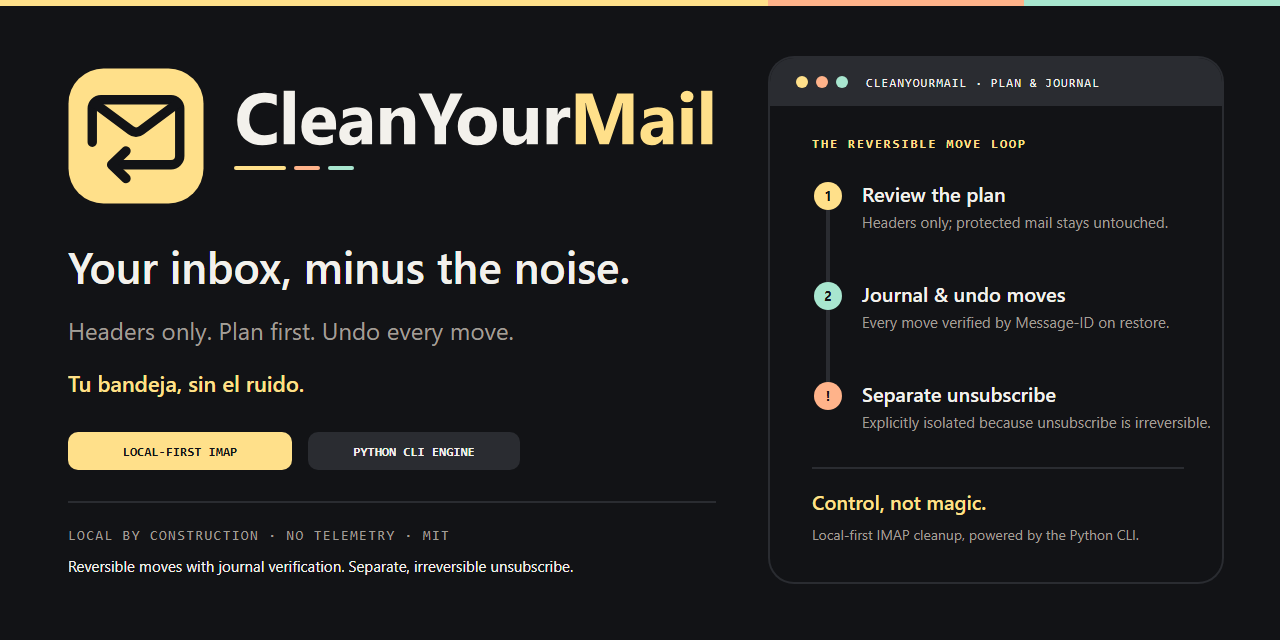
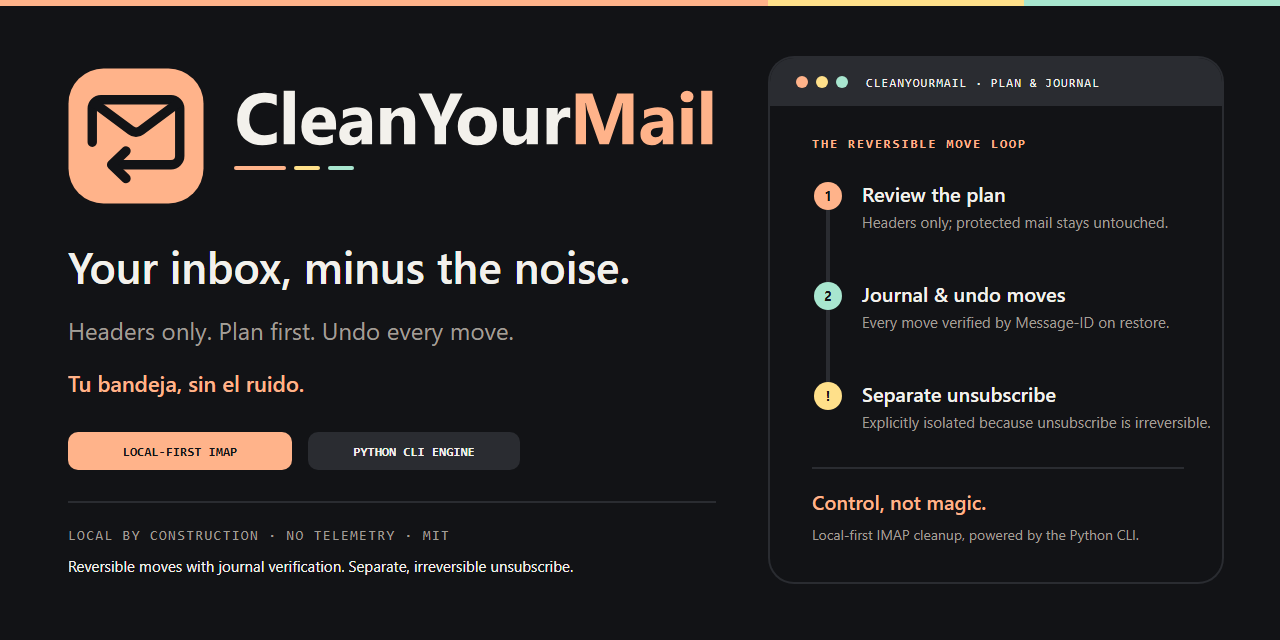
brand: make orange the primary Spectrum accent
- Swap the yellow/orange roles: orange (#FFB38A) is now primary.\n- Yellow (#FFE08A) moves to attention and irreversible unsubscribe.\n- Mint (#A8E6CF) remains journal/undo.\n- Update the Spectrum guide, preview, banner and social card.\n\nTests: python -m unittest discover -s tests -v (146 OK);\npython -m compileall -q tools tests; python -m ruff check tools tests.

diff --git a/brand/final-spectrum/preview.html b/brand/final-spectrum/preview.html
@@ -12,8 +12,8 @@
       --panel-inner: #191B20;
       --text: #F3F1EC;
       --muted: #A19E96;
+      --orange: #FFB38A;
       --yellow: #FFE08A;
-      --peach: #FFB38A;
       --mint: #A8E6CF;
       --light-bg: #F3F1EC;
       --light-text: #121316;
@@ -33,8 +33,8 @@
       height: 5px;
       width: 100%;
     }
-    .top-ribbon .r-yellow { flex: 6; background: var(--yellow); }
-    .top-ribbon .r-peach { flex: 2; background: var(--peach); }
+    .top-ribbon .r-orange { flex: 6; background: var(--orange); }
+    .top-ribbon .r-yellow { flex: 2; background: var(--yellow); }
     .top-ribbon .r-mint { flex: 2; background: var(--mint); }
     main {
       width: min(1440px, calc(100% - 64px));
@@ -55,7 +55,7 @@
     h2 { font-size: 22px; letter-spacing: -0.02em; margin-bottom: 6px; }
     h3 { font-size: 15px; font-weight: 600; color: var(--text); margin-bottom: 10px; }
     .eyebrow {
-      color: var(--yellow);
+      color: var(--orange);
       font: 700 12px/1.4 Consolas, Menlo, monospace;
       letter-spacing: 0.16em;
       text-transform: uppercase;
@@ -69,7 +69,7 @@
     }
     .tagline-box { text-align: right; }
     .tagline { color: var(--text); font-size: 20px; font-weight: 600; white-space: nowrap; }
-    .tagline-es { color: var(--yellow); font-size: 15px; font-weight: 600; margin-top: 4px; white-space: nowrap; }
+    .tagline-es { color: var(--orange); font-size: 15px; font-weight: 600; margin-top: 4px; white-space: nowrap; }
     section { margin-top: 42px; }
     .section-note { color: var(--muted); font-size: 14px; margin-bottom: 18px; }
     .panel {
@@ -178,7 +178,7 @@
       width: 5px;
       height: 5px;
       border-radius: 50%;
-      background: var(--yellow);
+      background: var(--orange);
     }
     .dock-stage.light .dock-dot {
       background: var(--light-text);
@@ -251,8 +251,8 @@
 </head>
 <body>
   <div class="top-ribbon" aria-hidden="true">
+    <div class="r-orange"></div>
     <div class="r-yellow"></div>
-    <div class="r-peach"></div>
     <div class="r-mint"></div>
   </div>
   <main>
@@ -260,7 +260,7 @@
       <div>
         <div class="eyebrow">Spectrum Colorway · Return Fold Identity</div>
         <h1>CleanYourMail</h1>
-        <p class="lede">Control, not magic. The Return Fold desktop app and CLI identity in the high-contrast Spectrum palette: warm yellow primary tile, mint journal/undo markers, and peach irreversible-unsubscribe warnings.</p>
+        <p class="lede">Control, not magic. The Return Fold desktop app and CLI identity in the high-contrast Spectrum palette: warm orange primary tile, mint journal/undo markers, and yellow irreversible-unsubscribe warnings.</p>
       </div>
       <div class="tagline-box">
         <p class="tagline">Your inbox, minus the noise.</p>
@@ -270,7 +270,7 @@
 
     <section>
       <h2>Symbol scale test (16 px – 256 px)</h2>
-      <p class="section-note">Solid yellow (#FFE08A) tile with a single near-black (#121316) Return Fold glyph (14.40:1 contrast). The three-stripe ribbon is never placed inside the symbol or favicon.</p>
+      <p class="section-note">Solid orange (#FFB38A) tile with a single near-black (#121316) Return Fold glyph (10.67:1 contrast). The three-stripe ribbon is never placed inside the symbol or favicon.</p>
       <div class="panel sizes">
         <div class="size"><img src="symbol.svg" alt="CleanYourMail Spectrum symbol at 16 pixels" width="16" height="16"><span>16 px</span></div>
         <div class="size"><img src="symbol.svg" alt="CleanYourMail Spectrum symbol at 24 pixels" width="24" height="24"><span>24 px</span></div>
@@ -283,7 +283,7 @@
 
     <section>
       <h2>Desktop app icon — dark &amp; light dock / taskbar mock</h2>
-      <p class="section-note">1024×1024 rounded-square desktop app icon with 96 px macOS/Windows safe margins, dark #121316 outer bezel, #2A2C31 inner rim, and #FFE08A Return Fold badge.</p>
+      <p class="section-note">1024×1024 rounded-square desktop app icon with 96 px macOS/Windows safe margins, dark #121316 outer bezel, #2A2C31 inner rim, and #FFB38A Return Fold badge.</p>
       <div class="grid">
         <div class="panel asset">
           <div class="dock-stage dark">
@@ -361,7 +361,7 @@
 
     <section>
       <h2>Primary lockups &amp; restrained three-stripe accent</h2>
-      <p class="section-note">The symbol stays a solid yellow tile; the three-stripe structural rule (yellow dominant, peach, mint) sits calmly below the wordmark.</p>
+      <p class="section-note">The symbol stays a solid orange tile; the three-stripe structural rule (orange dominant, yellow, mint) sits calmly below the wordmark.</p>
       <div class="grid">
         <div class="panel asset">
           <img class="lockup-wide" src="lockup-horizontal.svg" alt="CleanYourMail Spectrum horizontal lockup" width="860" height="192">
@@ -376,7 +376,7 @@
 
     <section>
       <h2>Wordmark and light-background variant</h2>
-      <p class="section-note">wordmark.svg uses outlined vector paths (#F3F1EC CleanYour + #FFE08A Mail). light.svg uses #F3F1EC canvas, #121316 tile, and accessible deep amber #7A5A00 (5.65:1) for Mail.</p>
+      <p class="section-note">wordmark.svg uses outlined vector paths (#F3F1EC CleanYour + #FFB38A Mail). light.svg uses #F3F1EC canvas, #121316 tile, and accessible deep amber #7A5A00 (5.65:1) for Mail.</p>
       <div class="grid">
         <div class="panel asset">
           <img class="lockup-wide" src="wordmark.svg" alt="CleanYourMail Spectrum outlined wordmark" width="604" height="96">
@@ -399,7 +399,7 @@
 
     <section>
       <h2>Social / Open Graph card (1280 × 640)</h2>
-      <p class="section-note">social.svg · Local desktop app + Python CLI engine with yellow plan, mint undo, and peach irreversible-unsubscribe callout.</p>
+      <p class="section-note">social.svg · Local desktop app + Python CLI engine with orange plan, mint undo, and yellow irreversible-unsubscribe callout.</p>
       <div class="panel card"><img src="social.svg" alt="CleanYourMail Spectrum social card" width="1280" height="640"></div>
     </section>
 
@@ -408,9 +408,9 @@
       <p class="section-note">Each accent color maps to a specific product truth rather than equal-weight decoration.</p>
       <div class="roles-grid">
         <div class="role-card">
-          <span class="role-pill" style="background:#FFE08A;color:#121316;">YELLOW · #FFE08A · 14.40:1</span>
+          <span class="role-pill" style="background:#FFB38A;color:#121316;">ORANGE · #FFB38A · 10.67:1</span>
           <h3>Primary Action, Plan &amp; Logo Tile</h3>
-          <p class="section-note" style="margin:0;">Used for the Return Fold tile, "Mail" in the dark wordmark, primary CTAs ("Review Plan"), and step 1. Always pair yellow surfaces with near-black (#121316) ink.</p>
+          <p class="section-note" style="margin:0;">Used for the Return Fold tile, "Mail" in the dark wordmark, primary CTAs ("Review Plan"), and step 1. Always pair orange surfaces with near-black (#121316) ink.</p>
         </div>
         <div class="role-card">
           <span class="role-pill" style="background:#A8E6CF;color:#121316;">MINT · #A8E6CF · 13.17:1</span>
@@ -418,9 +418,9 @@
           <p class="section-note" style="margin:0;">Used for append-only journal badges, undo step markers, and secondary graphic accents. Never use for small body text on dark backgrounds.</p>
         </div>
         <div class="role-card">
-          <span class="role-pill" style="background:#FFB38A;color:#121316;">PEACH · #FFB38A · 10.67:1</span>
+          <span class="role-pill" style="background:#FFE08A;color:#121316;">YELLOW · #FFE08A · 14.40:1</span>
           <h3>Attention &amp; Irreversible Unsubscribe</h3>
-          <p class="section-note" style="margin:0;">Reserved for warnings and the separate, irreversible unsubscribe flow. Use near-black (#121316) text on peach badges.</p>
+          <p class="section-note" style="margin:0;">Reserved for warnings and the separate, irreversible unsubscribe flow. Use near-black (#121316) text on yellow badges.</p>
         </div>
       </div>
 
@@ -429,8 +429,8 @@
         <div class="swatch"><div class="swatch-color" style="background:#2A2C31"></div><div class="swatch-info"><strong>Panel Gray</strong><br>#2A2C31</div></div>
         <div class="swatch"><div class="swatch-color" style="background:#F3F1EC"></div><div class="swatch-info"><strong>Off-White Text</strong><br>#F3F1EC · 16.46:1</div></div>
         <div class="swatch"><div class="swatch-color" style="background:#A19E96"></div><div class="swatch-info"><strong>Muted Gray</strong><br>#A19E96 · 6.94:1</div></div>
-        <div class="swatch"><div class="swatch-color" style="background:#FFE08A"></div><div class="swatch-info"><strong>Primary Yellow</strong><br>#FFE08A · 14.40:1</div></div>
-        <div class="swatch"><div class="swatch-color" style="background:#FFB38A"></div><div class="swatch-info"><strong>Warning Peach</strong><br>#FFB38A · 10.67:1</div></div>
+        <div class="swatch"><div class="swatch-color" style="background:#FFB38A"></div><div class="swatch-info"><strong>Primary Orange</strong><br>#FFB38A · 10.67:1</div></div>
+        <div class="swatch"><div class="swatch-color" style="background:#FFE08A"></div><div class="swatch-info"><strong>Warning Yellow</strong><br>#FFE08A · 14.40:1</div></div>
         <div class="swatch"><div class="swatch-color" style="background:#A8E6CF"></div><div class="swatch-info"><strong>Undo Mint</strong><br>#A8E6CF · 13.17:1</div></div>
         <div class="swatch"><div class="swatch-color" style="background:#7A5A00"></div><div class="swatch-info"><strong>Light Amber</strong><br>#7A5A00 · 5.65:1</div></div>
       </div>
@@ -449,7 +449,7 @@
           </div>
           <img class="lockup-wide" src="lockup-horizontal.svg" alt="Spectrum horizontal lockup" width="860" height="192">
           <div style="margin-top:14px;"><img class="lockup-wide" src="banner.svg" alt="Spectrum banner" width="1600" height="440"></div>
-          <div class="caption">Neutral carbon #121316 + #FFE08A / #FFB38A / #A8E6CF semantic accents</div>
+          <div class="caption">Neutral carbon #121316 + #FFB38A / #FFE08A / #A8E6CF semantic accents</div>
         </div>
 
         <div class="panel asset" style="background:#07100d;border-color:#11231b;">

diff --git a/brand/final-spectrum/README.md b/brand/final-spectrum/README.md
@@ -11,23 +11,23 @@
 
 > The desktop app icon and app-first tokens are prepared for the planned app. Today the Python CLI and agent skill are the available interfaces.
 
-The **Spectrum** colorway pairs a neutral carbon background (`#121316`) and warm off-white typography (`#F3F1EC`) with three semantic signal colors—**Yellow (`#FFE08A`)**, **Peach (`#FFB38A`)**, and **Mint (`#A8E6CF`)**—plus a restrained, horizontal three-stripe structural accent. It takes only the color palette and a generic three-stripe bar as inspiration; it avoids diagonal esports slashes, condensed gaming display fonts, or third-party trade dress.
+The **Spectrum** colorway pairs a neutral carbon background (`#121316`) and warm off-white typography (`#F3F1EC`) with three semantic signal colors—**Orange (`#FFB38A`)**, **Yellow (`#FFE08A`)**, and **Mint (`#A8E6CF`)**—plus a restrained, horizontal three-stripe structural accent. It takes only the color palette and a generic three-stripe bar as inspiration; it avoids diagonal esports slashes, condensed gaming display fonts, or third-party trade dress.
 
 ---
 
 ## 2. Semantic color roles & contrast ratios
 
-Rather than using yellow, peach, and mint at equal weight inside the logo, **Spectrum assigns each accent color to a distinct product truth**:
+Rather than using orange, yellow, and mint at equal weight inside the logo, **Spectrum assigns each accent color to a distinct product truth**:
 
-1. **Yellow (`#FFE08A`) — Primary Action, Plan, CTA & Logo Tile:**
+1. **Orange (`#FFB38A`) — Primary Action, Plan, CTA & Logo Tile:**
    - Used for the solid Return Fold logo tile, `Mail` in the dark-background wordmark, primary action buttons (`Review Plan`), and Step 1 (*Plan before action*).
-   - Always use near-black (`#121316`) ink on yellow fills (`14.40:1` AAA contrast).
+   - Always use near-black (`#121316`) ink on orange fills (`10.67:1` AAA contrast).
 2. **Mint (`#A8E6CF`) — Journal, Undo & Secondary Path:**
    - Used for append-only journal badges, undo step markers (Step 2: *Journal & undo moves*), and secondary structural accents.
    - Use for step markers, icons, and large headlines (`13.17:1` on `#121316`), **never** for small body copy on dark backgrounds.
-3. **Peach (`#FFB38A`) — Attention, Warnings & Irreversible Unsubscribe:**
+3. **Yellow (`#FFE08A`) — Attention, Warnings & Irreversible Unsubscribe:**
    - Reserved for caution states and the separate, irreversible unsubscribe flow.
-   - Use near-black (`#121316`) text on peach badges (`10.67:1` AA contrast).
+   - Use near-black (`#121316`) text on yellow badges (`14.40:1` AAA contrast).
 4. **Neutral Foundation (`#121316`, `#2A2C31`, `#F3F1EC`, `#A19E96`):**
    - Carbon background `#121316`, elevated/border panel gray `#2A2C31`, warm off-white primary text `#F3F1EC`, and muted warm gray `#A19E96` for secondary copy.
 
@@ -35,12 +35,12 @@ Rather than using yellow, peach, and mint at equal weight inside the logo, **Spe
 
 | Token | Hex | Role | WCAG contrast ratio |
 |---|---|---|---|
-| `background` | `#121316` | Primary dark canvas & Return Fold ink on yellow/peach | — |
+| `background` | `#121316` | Primary dark canvas & Return Fold ink on orange/yellow | — |
 | `panel` | `#2A2C31` | Card borders, window chrome, secondary surfaces | `12.38:1` with `#F3F1EC` (AAA) |
 | `text` | `#F3F1EC` | Primary off-white text & `CleanYour` on dark | `16.46:1` on `#121316` (AAA) |
 | `muted` | `#A19E96` | Secondary copy, subtitles, technical metadata | `6.94:1` on `#121316` (AA) / `5.22:1` on `#2A2C31` (AA) |
-| `yellow` | `#FFE08A` | Logo tile, `Mail` on dark, Plan / primary CTA | `14.40:1` with `#121316` (AAA) / `10.83:1` on `#2A2C31` (AAA) |
-| `peach` | `#FFB38A` | Warnings & irreversible unsubscribe badges | `10.67:1` with `#121316` (AA) / `8.03:1` on `#2A2C31` (AA Large) |
+| `orange` | `#FFB38A` | Logo tile, `Mail` on dark, Plan / primary CTA | `10.67:1` with `#121316` (AAA) / `8.03:1` on `#2A2C31` (AAA) |
+| `yellow` | `#FFE08A` | Warnings & irreversible unsubscribe badges | `14.40:1` with `#121316` (AAA) / `10.83:1` on `#2A2C31` (AAA) |
 | `mint` | `#A8E6CF` | Journal & undo step markers, ribbon third segment | `13.17:1` on `#121316` (AA Large / UI) |
 | `light-canvas` | `#F3F1EC` | Light-background surface (`light.svg`) | `16.46:1` with `#121316` (AAA) |
 | `light-secondary` | `#4E4D48` | Supporting text on `#F3F1EC` light canvas | `7.50:1` on `#F3F1EC` (AAA) |
@@ -50,8 +50,8 @@ Rather than using yellow, peach, and mint at equal weight inside the logo, **Spe
 
 ## 3. Three-stripe ribbon usage
 
-- **Keep the symbol solid:** `symbol.svg`, `favicon.svg`, `app-icon.svg`, `mono.svg`, and `app-icon-mono.svg` never split the tile or glyph into three colors. The tile is solid `#FFE08A` with `#121316` ink.
-- **Unequal, yellow-led weighting:** The three-stripe accent uses a **2 : 1 : 1** or **3 : 1 : 1** ratio (`#FFE08A` yellow first and widest, followed by `#FFB38A` peach and `#A8E6CF` mint) so yellow remains the unmistakable primary brand color.
+- **Keep the symbol solid:** `symbol.svg`, `favicon.svg`, `app-icon.svg`, `mono.svg`, and `app-icon-mono.svg` never split the tile or glyph into three colors. The tile is solid `#FFB38A` with `#121316` ink.
+- **Unequal, orange-led weighting:** The three-stripe accent uses a **2 : 1 : 1** or **3 : 1 : 1** ratio (`#FFB38A` orange first and widest, followed by `#FFE08A` yellow and `#A8E6CF` mint) so orange remains the unmistakable primary brand color.
 - **Calm, horizontal structure:** Use the ribbon as a thin (`4–6 px`) horizontal top border on banners/cards or as a compact (`128–144 px` wide, `4–5 px` tall) horizontal section divider beneath lockup headers.
 - **Where not to use:** Never angle the ribbon as a diagonal background slash, never place it behind body text, and never include it inside `favicon.svg` or `symbol.svg`.
 
@@ -59,9 +59,9 @@ Rather than using yellow, peach, and mint at equal weight inside the logo, **Spe
 
 ## 4. Logo, wordmark & desktop app icon rules
 
-- **Symbol (`symbol.svg`, 512×512):** `#121316` background, `#FFE08A` tile (`x=40, y=40, width=432, height=432, rx=112`), `#121316` Return Fold stroke (`stroke-width=30`). Minimum size: `16 px` (`24 px` standalone).
+- **Symbol (`symbol.svg`, 512×512):** `#121316` background, `#FFB38A` tile (`x=40, y=40, width=432, height=432, rx=112`), `#121316` Return Fold stroke (`stroke-width=30`). Minimum size: `16 px` (`24 px` standalone).
 - **Favicon (`favicon.svg`, 64×64):** Simplified 64-unit grid (`x=2, y=2, width=60, height=60, rx=16`, `stroke-width=4.5`) for `16–32 px` browser tabs.
-- **Desktop App Icon (`app-icon.svg`, 1024×1024):** `832×832` rounded square (`rx=192`) with `96 px` OS safe margins, `#121316` outer bezel, `#2A2C31` inner rim, and `#FFE08A` inner badge (`720×720`, `rx=156`). Works cleanly on both dark and light macOS Docks and Windows taskbars from `32 px` to `1024 px`.
+- **Desktop App Icon (`app-icon.svg`, 1024×1024):** `832×832` rounded square (`rx=192`) with `96 px` OS safe margins, `#121316` outer bezel, `#2A2C31` inner rim, and `#FFB38A` inner badge (`720×720`, `rx=156`). Works cleanly on both dark and light macOS Docks and Windows taskbars from `32 px` to `1024 px`.
 - **Monochrome (`mono.svg` & `app-icon-mono.svg`):** Single `#121316` ink outline with transparent fill for embossing, stamps, and monochrome system trays.
 - **Wordmark (`wordmark.svg`, 604×96) & Lockups (`lockup-horizontal.svg`, `lockup-stacked.svg`, `light.svg`):** Outlined `<path>` geometry (`CleanYourMail`). Minimum width: `120 px` for wordmark alone, `160 px` for horizontal/light/stacked lockups. Clear space around any mark is `25%` of the visible tile width.
 - **Supporting typography (`banner.svg`, `social.svg`, `preview.html`):** System UI stack `"Segoe UI", "Helvetica Neue", Arial, sans-serif` and technical stack `Consolas, Menlo, monospace`. Convert `<text>` in banners/cards to outlines only if required by a print vendor.
@@ -73,8 +73,8 @@ Rather than using yellow, peach, and mint at equal weight inside the logo, **Spe
 ### Do
 - Keep the exact `CleanYourMail` casing and both taglines (*“Your inbox, minus the noise.”* / *“Tu bandeja, sin el ruido.”*).
 - State clearly that CleanYourMail reads **headers only** (never bodies/attachments) and that **reversible applies to moves, while unsubscribe is separate and irreversible**.
-- Use near-black `#121316` text on `#FFE08A` yellow and `#FFB38A` peach fills.
-- Use `#7A5A00` (not `#FFE08A`) for the `Mail` wordmark accent on light `#F3F1EC` backgrounds so text contrast stays above `4.5:1` (`5.65:1`).
+- Use near-black `#121316` text on `#FFB38A` orange and `#FFE08A` yellow fills.
+- Use `#7A5A00` (not `#FFB38A`) for the `Mail` wordmark accent on light `#F3F1EC` backgrounds so text contrast stays above `4.5:1` (`5.65:1`).
 
 ### Don’t
 - Do not color the envelope flap, body, and arrow in three different colors inside the symbol or app icon.
@@ -88,17 +88,17 @@ Rather than using yellow, peach, and mint at equal weight inside the logo, **Spe
 
 | File | Dimensions / ViewBox | Purpose |
 |---|---|---|
-| `symbol.svg` | `512 × 512` | Solid yellow `#FFE08A` Return Fold symbol on `#121316` background. |
-| `favicon.svg` | `64 × 64` | Simplified `16–32 px` yellow tile + `#121316` glyph (no ribbon). |
+| `symbol.svg` | `512 × 512` | Solid orange `#FFB38A` Return Fold symbol on `#121316` background. |
+| `favicon.svg` | `64 × 64` | Simplified `16–32 px` orange tile + `#121316` glyph (no ribbon). |
 | `app-icon.svg` | `1024 × 1024` | Rounded-square desktop app icon with `96 px` safe margins and `#121316`/`#2A2C31` bezel. |
 | `app-icon-mono.svg` | `1024 × 1024` | Single-color (`#121316`) desktop app icon with `96 px` safe margins. |
-| `wordmark.svg` | `604 × 96` | Outlined `<path>` wordmark (`#F3F1EC` `CleanYour` + `#FFE08A` `Mail`). |
+| `wordmark.svg` | `604 × 96` | Outlined `<path>` wordmark (`#F3F1EC` `CleanYour` + `#FFB38A` `Mail`). |
 | `lockup-horizontal.svg` | `860 × 192` | Primary horizontal lockup with restrained 3-stripe structural accent. |
 | `lockup-stacked.svg` | `640 × 640` | Square stacked lockup with centered 3-stripe structural bar. |
 | `mono.svg` | `512 × 512` | Single-ink (`#121316`) outlined symbol. |
 | `light.svg` | `860 × 192` | Light-background (`#F3F1EC`) lockup with `#121316` tile and `#7A5A00` accessible `Mail` accent. |
 | `banner.svg` | `1600 × 440` | Repository banner with restrained top ribbon, taglines, and semantic step card. |
-| `social.svg` | `1280 × 640` | Social / OG card with yellow plan, mint undo, and peach irreversible-unsubscribe roles. |
+| `social.svg` | `1280 × 640` | Social / OG card with orange plan, mint undo, and yellow irreversible-unsubscribe roles. |
 | `preview.html` | Responsive HTML | Offline QA preview including side-by-side comparison with `brand/final/`. |
 | `README.md` | Markdown | Full Spectrum brand guide and recommendation. |
 
@@ -112,8 +112,8 @@ See [`docs/BRAND-SPECTRUM.md`](../../docs/BRAND-SPECTRUM.md) for the one-page ch
 
 Why **Spectrum** is exceptionally strong for an **app-first** CleanYourMail:
 1. **Built-in semantic hierarchy for a safety-critical GUI:** Unlike the monochrome green/teal palette (where both safe moves and warnings have to borrow outside colors or rely on subtle green shades), Spectrum gives the desktop app a native, high-contrast functional vocabulary right out of the brand palette:
-   - **Yellow (`#FFE08A`)** = *Plan / Review before action* (primary constructive action).
+   - **Orange (`#FFB38A`)** = *Plan / Review before action* (primary constructive action).
    - **Mint (`#A8E6CF`)** = *Journal / Undo* (the verified way back).
-   - **Peach (`#FFB38A`)** = *Irreversible Unsubscribe / Caution* (visually separating irreversible network actions from reversible IMAP folder moves).
-2. **Superior desktop dock differentiation:** Most developer and productivity utilities on macOS/Windows docks cluster in blues, teals, or dark greens. A warm `#FFE08A` badge framed in `#121316` carbon (`app-icon.svg`) is immediately scannable at `32 px` and `64 px` on both dark and light docks while feeling like an industrial-grade local tool (akin to classic hardware instruments and diagnostic tools).
+   - **Yellow (`#FFE08A`)** = *Irreversible Unsubscribe / Caution* (visually separating irreversible network actions from reversible IMAP folder moves).
+2. **Superior desktop dock differentiation:** Most developer and productivity utilities on macOS/Windows docks cluster in blues, teals, or dark greens. A warm `#FFB38A` badge framed in `#121316` carbon (`app-icon.svg`) is immediately scannable at `32 px` and `64 px` on both dark and light docks while feeling like an industrial-grade local tool (akin to classic hardware instruments and diagnostic tools).
 3. **Neutral carbon UI surfaces (`#121316` / `#2A2C31`):** Dense email header tables (sender, subject, date, size, flags) are easier to scan over neutral warm carbon (`#121316` with `#F3F1EC` warm paper text at `16.46:1`) than over tinted green backgrounds, while reducing visual fatigue during long inbox triage sessions.

diff --git a/docs/BRAND-SPECTRUM.md b/docs/BRAND-SPECTRUM.md
@@ -1,6 +1,6 @@
 # CleanYourMail — Spectrum Brand Cheat Sheet
 
-**Final decision: Return Fold in the Spectrum colorway.** CleanYourMail pairs the **Return Fold** envelope-and-undo mark (`↩`) with a neutral carbon canvas (`#121316`), warm off-white text (`#F3F1EC`), and three semantic signal colors: **Yellow `#FFE08A`** (plan, primary action, logo tile), **Mint `#A8E6CF`** (journal & undo), and **Peach `#FFB38A`** (attention & irreversible unsubscribe). Full specifications live in [`brand/final-spectrum/README.md`](../brand/final-spectrum/README.md).
+**Final decision: Return Fold in the Spectrum colorway.** CleanYourMail pairs the **Return Fold** envelope-and-undo mark (`↩`) with a neutral carbon canvas (`#121316`), warm off-white text (`#F3F1EC`), and three semantic signal colors: **Orange `#FFB38A`** (plan, primary action, logo tile), **Mint `#A8E6CF`** (journal & undo), and **Yellow `#FFE08A`** (attention & irreversible unsubscribe). Full specifications live in [`brand/final-spectrum/README.md`](../brand/final-spectrum/README.md).
 
 ## Identity essentials
 
@@ -11,16 +11,16 @@
 
 ## Semantic color roles & contrast ratios
 
-- **Yellow `#FFE08A` (Primary / Plan / Logo Tile):** Solid Return Fold tile, `Mail` in dark wordmark, primary CTAs, Step 1 (*Plan*). Always pair yellow fills with near-black `#121316` text/ink (**14.40:1** AAA; `#FFE08A` on `#2A2C31` panel is **10.83:1** AAA).
-- **Peach `#FFB38A` (Attention / Irreversible Unsubscribe):** Warning states and separate unsubscribe badges. Always use near-black `#121316` text on peach fills (**10.67:1** AA; `#FFB38A` on `#2A2C31` is **8.03:1** AA Large).
+- **Orange `#FFB38A` (Primary / Plan / Logo Tile):** Solid Return Fold tile, `Mail` in dark wordmark, primary CTAs, Step 1 (*Plan*). Always pair orange fills with near-black `#121316` text/ink (**10.67:1** AAA; `#FFB38A` on `#2A2C31` panel is **8.03:1** AAA).
+- **Yellow `#FFE08A` (Attention / Irreversible Unsubscribe):** Warning states and separate unsubscribe badges. Always use near-black `#121316` text on yellow fills (**14.40:1** AAA; `#FFE08A` on `#2A2C31` is **10.83:1** AAA).
 - **Mint `#A8E6CF` (Journal / Undo / Secondary Path):** Undo markers, journal badges, and third ribbon segment (**13.17:1** on `#121316`; **9.90:1** on `#2A2C31`). Use for step markers, icons, and large accents—never small body text on dark.
 - **Neutrals:** Carbon background `#121316` · Panel gray `#2A2C31` · Off-white text `#F3F1EC` (**16.46:1** on `#121316`, **12.38:1** on `#2A2C31`) · Muted gray `#A19E96` (**6.94:1** on `#121316`, **5.22:1** on `#2A2C31`).
 - **Light surface (`light.svg` on `#F3F1EC`):** Near-black tile/text `#121316` (**16.46:1**), secondary `#4E4D48` (**7.50:1**), and accessible deep amber `Mail` accent `#7A5A00` (**5.65:1** AA).
 
 ## Three-stripe ribbon & logo rules
 
-- **Solid symbol tile:** Keep `symbol.svg`, `favicon.svg`, and `app-icon.svg` as a single solid `#FFE08A` tile with `#121316` ink. Never split the symbol into three colors or place the ribbon inside the 16 px favicon.
-- **Restrained horizontal ribbon:** Use a thin (`4–6 px`), yellow-dominant (`#FFE08A` / `#FFB38A` / `#A8E6CF`) horizontal rule as a top banner border or small section divider under lockup headers. Never use diagonal esports stripes or put the ribbon behind body copy.
+- **Solid symbol tile:** Keep `symbol.svg`, `favicon.svg`, and `app-icon.svg` as a single solid `#FFB38A` tile with `#121316` ink. Never split the symbol into three colors or place the ribbon inside the 16 px favicon.
+- **Restrained horizontal ribbon:** Use a thin (`4–6 px`), orange-dominant (`#FFB38A` / `#FFE08A` / `#A8E6CF`) horizontal rule as a top banner border or small section divider under lockup headers. Never use diagonal esports stripes or put the ribbon behind body copy.
 - **Typography:** Wordmark (`wordmark.svg` and lockups) uses outlined `<path>` vectors. Supporting copy uses `"Segoe UI", "Helvetica Neue", Arial, sans-serif` and `Consolas, Menlo, monospace`.
 - **Guardrail copy:** Always state **"headers only"** (never *"no email data at all"*) and state that **reversible applies to moves, while unsubscribe is separate and irreversible**.
 
@@ -29,4 +29,4 @@
 - **Icons & marks:** `symbol.svg` (512×512), `favicon.svg` (64×64 for 16–32 px), `app-icon.svg` (1024×1024 desktop icon with `96 px` safe margins), `app-icon-mono.svg` (1024×1024 one-ink), `mono.svg` (512×512 one-ink).
 - **Wordmark & lockups:** `wordmark.svg` (604×96), `lockup-horizontal.svg` (860×192), `lockup-stacked.svg` (640×640), `light.svg` (860×192).
 - **Cards & QA:** `banner.svg` (1600×440), `social.svg` (1280×640), `preview.html` (offline preview with side-by-side comparison against `brand/final/`).
-- **Recommendation:** Adopt **Spectrum** as the primary app-first identity (or default dark UI theme) because its semantic triad—**Yellow (Plan)**, **Mint (Undo/Journal)**, and **Peach (Irreversible Unsubscribe)**—maps directly to CleanYourMail's safety architecture on a neutral `#121316` carbon workspace, while the `#FFE08A` app icon achieves standout visibility on desktop docks.
+- **Recommendation:** Adopt **Spectrum** as the primary app-first identity (or default dark UI theme) because its semantic triad—**Orange (Plan)**, **Mint (Undo/Journal)**, and **Yellow (Irreversible Unsubscribe)**—maps directly to CleanYourMail's safety architecture on a neutral `#121316` carbon workspace, while the `#FFB38A` app icon achieves standout visibility on desktop docks.

diff --git a/docs/BRAND.md b/docs/BRAND.md
@@ -1,6 +1,6 @@
 # CleanYourMail — Forest Brand Cheat Sheet
 
-> **Primary app-first identity:** [Spectrum](BRAND-SPECTRUM.md) — the yellow/peach/mint Return Fold on carbon. This document covers the **Forest/Lime alternate**, kept for the classic CLI theme.
+> **Primary app-first identity:** [Spectrum](BRAND-SPECTRUM.md) — the orange/yellow/mint Return Fold on carbon. This document covers the **Forest/Lime alternate**, kept for the classic CLI theme.
 
 **Forest colorway: Return Fold.** CleanYourMail replaces the old gradient-and-sparkle icon with the **Return Fold** mark: a bold envelope whose right and bottom perimeter folds continuously into a left-return undo arrow (`↩`) below a classic symmetric V-flap. It expresses mail plus a verified way back—**Control, not magic**—at every size from a 16 px favicon to a 1024 px desktop app icon. Full specifications and SVG masters live in [`brand/final/README.md`](../brand/final/README.md).
 

diff --git a/brand/final/README.md b/brand/final/README.md
@@ -1,6 +1,6 @@
 # CleanYourMail — Forest Brand Identity & App Icon Guide
 
-> **Primary app-first identity:** [Spectrum](../final-spectrum/README.md) — yellow/peach/mint Return Fold on carbon. This package is the **Forest/Lime alternate**, kept for the classic CLI theme.
+> **Primary app-first identity:** [Spectrum](../final-spectrum/README.md) — orange/yellow/mint Return Fold on carbon. This package is the **Forest/Lime alternate**, kept for the classic CLI theme.
 
 ## 1. Brand idea & final decision
 
